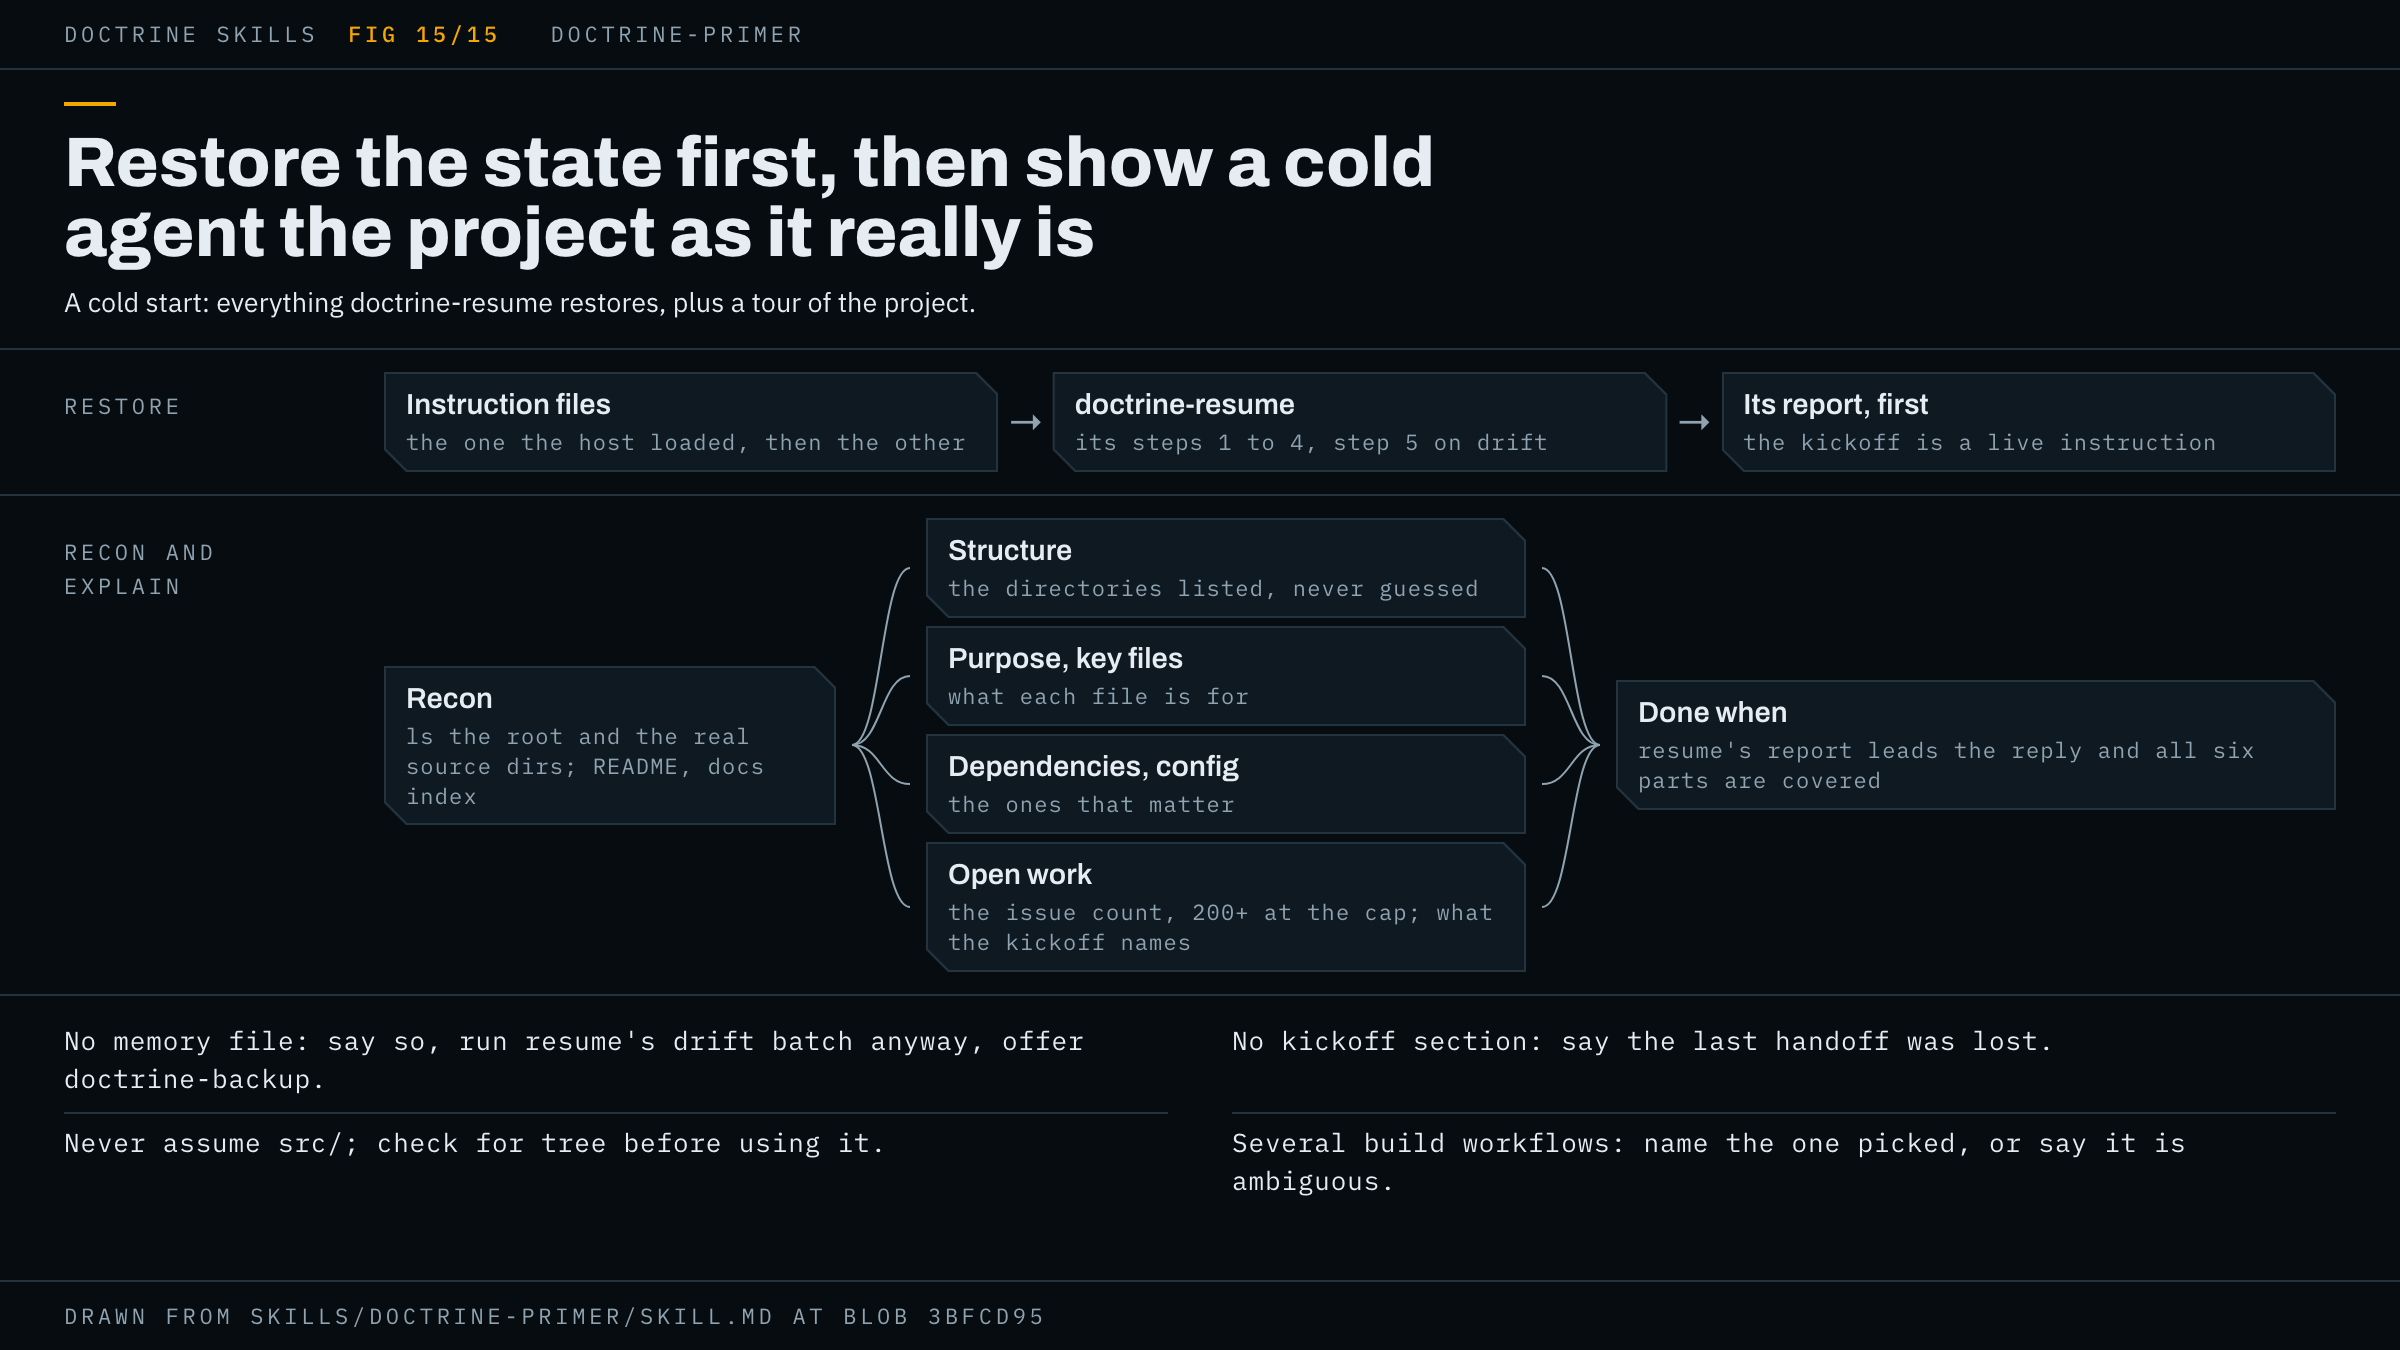
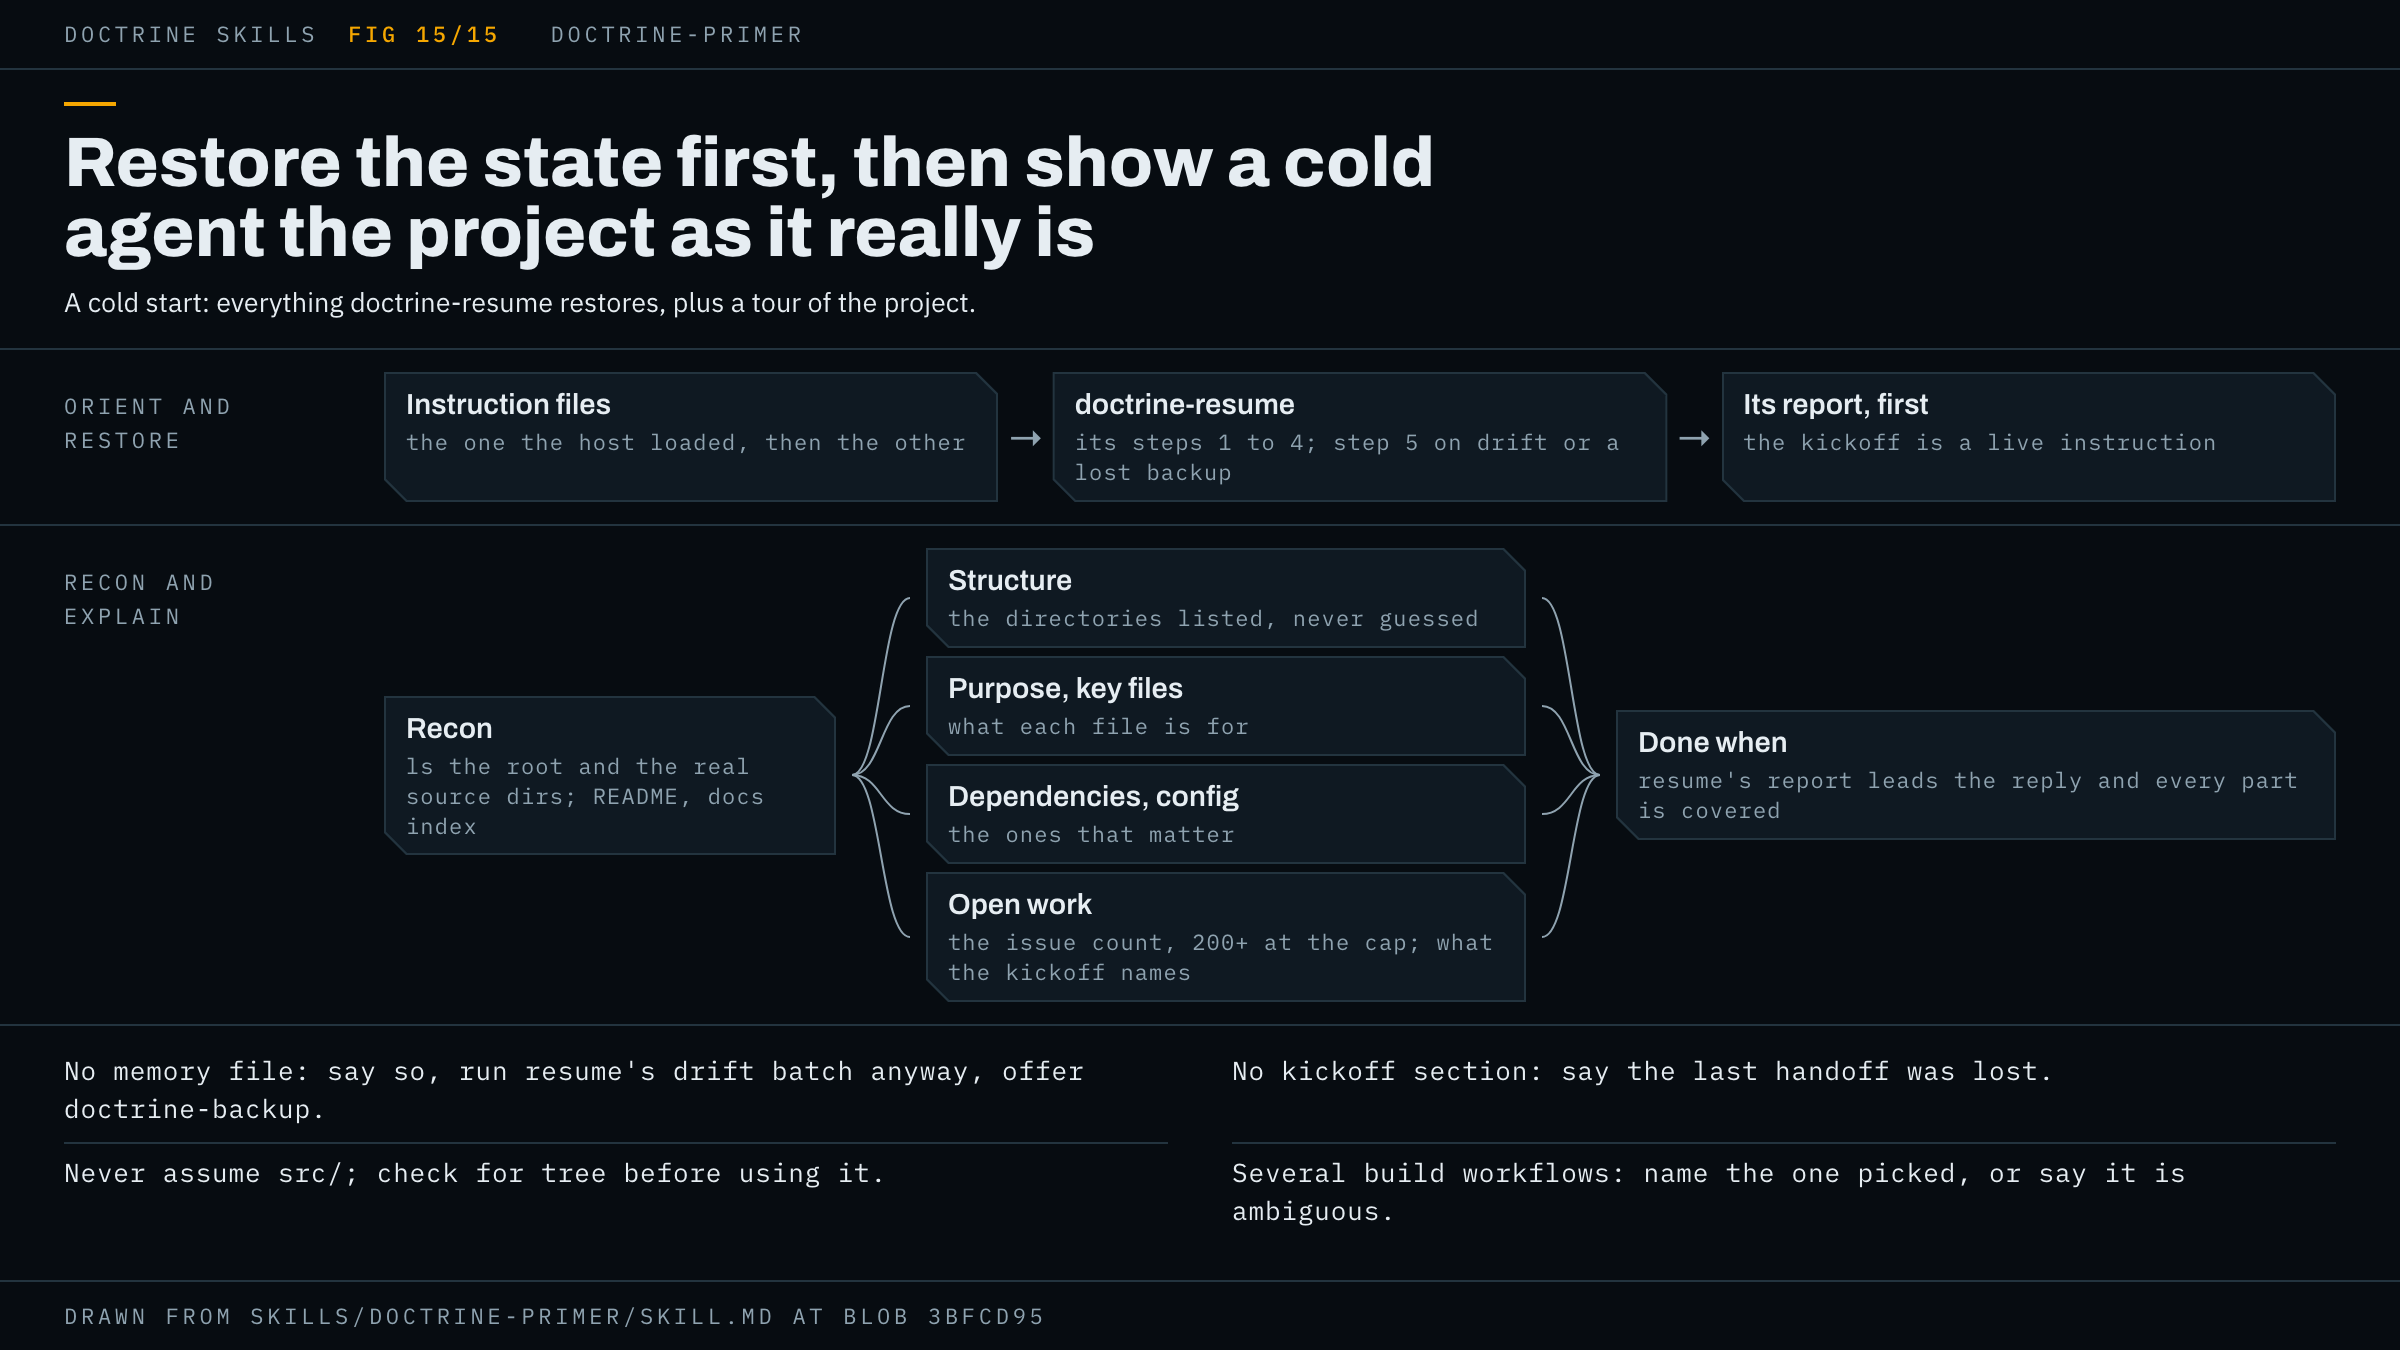
doctrine-primer page: round 1 repair (write list, early end, worked example, figure labels)

diff --git a/docs/skills/figures/doctrine-primer.html b/docs/skills/figures/doctrine-primer.html
@@ -16,11 +16,11 @@
 </section>
 
 <section class="row">
-  <div class="label">Restore</div>
+  <div class="label">Orient and<br>restore</div>
   <div class="flow">
     <div class="box"><b>Instruction files</b><span>the one the host loaded, then the other</span></div>
     <div class="arrow">→</div>
-    <div class="box"><b>doctrine-resume</b><span>its steps 1 to 4, step 5 on drift</span></div>
+    <div class="box"><b>doctrine-resume</b><span>its steps 1 to 4; step 5 on drift or a lost backup</span></div>
     <div class="arrow">→</div>
     <div class="box"><b>Its report, first</b><span>the kickoff is a live instruction</span></div>
   </div>
@@ -38,7 +38,7 @@
       <div class="box part"><b>Open work</b><span>the issue count, 200+ at the cap; what the kickoff names</span></div>
     </div>
     <svg class="wires" data-from=".part" data-to="#done"></svg>
-    <div class="col" style="flex:1"><div class="box" id="done"><b>Done when</b><span>resume's report leads the reply and all six parts are covered</span></div></div>
+    <div class="col" style="flex:1"><div class="box" id="done"><b>Done when</b><span>resume's report leads the reply and every part is covered</span></div></div>
   </div>
 </section>
 

diff --git a/docs/skills/doctrine-primer.md b/docs/skills/doctrine-primer.md
@@ -10,26 +10,28 @@ The figure shows the three steps this page walks through: restore, recon, explai
 
 The trigger is a cold start: a fresh session in a repo, a request to prime, orient or give a situation report, or an agent that has never seen this repo.
 
-When you need state only and not a tour of the code, `doctrine-resume` is the cheaper path, and the primer says so and stops. The two point at each other: the resume skill sends you to the primer when the agent needs the project explained.
+When you need state only and not a tour of the code, `doctrine-resume` is the cheaper path, and the primer says so and stops.
 
-The primer is not one of the hub's nine wrappers. The hub groups it with `doctrine-backup`, `doctrine-handoff` and `doctrine-resume`, the skills that carry a session's state and handoff to the next (doctrine step 5). It does not run a gate of its own. No hook types it: the auto-cycle types the `doctrine-resume` command after a `/clear`, never this one.
+The primer is not one of the hub's nine wrappers, and it runs no review gate of its own.
 
 ## What it asks you
 
 The primer asks nothing of its own. Two questions can reach you through the resume steps it runs:
 
 - Where the memory file and the repo disagree and auto-cycle is off: "Memory is stale — resync it?" On yes it runs `doctrine-backup`.
-- Where the handoff's first action may already have run and no phase record was read: whether it ran.
+- Where the first action the last handoff named may already have run, and no phase record was read to settle it: it asks whether that action ran.
 
-Where no memory file exists, it offers `doctrine-backup` at the end of the session.
+Where no memory file exists, it says so and offers to run `doctrine-backup` at the end of the session. Once `doctrine-backup` runs, it can ask questions of its own.
 
 ## How the work runs
 
-Before step 1 it reads the project instruction files. Your host loads one for it, and the hub's host reference names which: Claude Code loads `CLAUDE.md`, and Codex loads `AGENTS.md`. The primer reads the other one too where it exists, and reads the loaded one itself where the host stopped short of its end. `AGENTS.md` is usually where a project keeps its issue-tracking and session-completion norms.
+Before step 1 it reads the project instruction files. Your host loads one for it, and the hub's host reference names which: Claude Code loads `CLAUDE.md`, and Codex loads `AGENTS.md`. The primer reads the other one too where it exists, and reads the loaded one itself where the host loaded only part of it, as Codex does past 32 KiB by default. `AGENTS.md` is usually where a project keeps its issue-tracking and session-completion norms.
 
-1. **Restore.** It loads `doctrine-resume` first and makes no other call before it, because resume decides what has to come before the phase's wrapper. It then runs resume's steps 1 to 4: read the memory file, act on the kickoff's first line, check drift, hydrate the Active Work table, and write resume's report. That report goes at the very top of the reply, since its kickoff is a live instruction from the previous session and not history. Where resume finds drift or a backup that never landed, the primer takes resume's step 5 as resume writes it. Resume's step 6, which carries a phase on in the same turn under auto-cycle, is not among the steps the primer names.
+1. **Restore.** It loads `doctrine-resume` first and makes no call before it except reading the instruction files, because resume decides what has to come before the phase's wrapper. It then runs resume's steps 1 to 4: read the memory file, act on the kickoff's first line, check drift, hydrate the Active Work table, and write resume's report. That report goes at the very top of the reply, since its kickoff is a live instruction from the previous session and not history.
 
-   Through those steps, when the record the current handoff names is Open or Blocked, the session loads that phase's wrapper and then the `doctrine` skill. Two cases differ from a plain resume. With no memory file, resume would stop; the primer says there is none, offers `doctrine-backup` for the end of the session, runs resume's drift batch anyway for the branch, uncommitted work, open PRs and the build, and goes on to recon. With a memory file that has no `## Next Session Kickoff` section, it says so plainly: `doctrine-backup` is required to write that section, so its absence means the last handoff was lost.
+   Where resume finds drift or a backup that never landed, the primer takes resume's step 5 as resume writes it. Through those steps, when the record the current handoff names is Open or Blocked, the session loads that phase's wrapper and then the `doctrine` skill, or `doctrine` alone where the record names no wrapper.
+
+   Two cases differ from a plain resume. With no memory file, resume would stop; the primer says there is none, runs resume's drift batch anyway for the branch, uncommitted work, open PRs and the build, and goes on to recon. With a memory file that has no `## Next Session Kickoff` section, it says so plainly: `doctrine-backup` is required to write that section, so its absence means the last handoff was lost.
 
 2. **Recon.** It finds the project's real shape and never assumes a `src/` directory. In one batch:
 
@@ -50,11 +52,27 @@ Before step 1 it reads the project instruction files. Your host loads one for it
 
 ## How it ends
 
-It is done when resume's report leads the reply, with the kickoff quoted or its absence flagged, and all six parts of the explanation are covered. The primer writes no file of its own. A file changes only through the resume steps it runs: `doctrine-backup` when you say yes to a resync or a backup never landed, and one paused line appended to the phase record when the first action is ambiguous.
+It is done when resume's report leads the reply, with the kickoff quoted or its absence flagged, and all six parts of the explanation are covered.
+
+One case ends sooner. Where the handoff's first action may already have run and a phase record was read, resume appends a paused line to that record and ends the turn after its report, so you get the report and no tour until that is settled.
+
+The primer writes no file of its own. A file changes only through the steps it runs:
+
+- `doctrine-backup`, when you say yes to a resync, accept the end-of-session backup it offers, or a backup never landed.
+- One line naming the drift in the phase record, when auto-cycle is on and resume finds drift.
+- One paused line appended to the phase record, in the case above.
+
+## A worked example
+
+This example is illustrative: it shows the shape of a run, not a recorded one.
+
+You open a fresh session in a repo you last worked in a week ago and type `prime`. The primer reads `CLAUDE.md`, finds no `AGENTS.md`, and loads `doctrine-resume`. The reply opens with resume's report: the kickoff quoted, and drift noted because the branch is two commits past what the memory file recorded. Auto-cycle is off, so it asks "Memory is stale — resync it?" and you say no.
+
+It then lists the root and the two source directories it finds, checks for `tree`, and reads the README and the `docs/` index. The issue count returns 200, so it reports "200+" open issues and pulls titles only for the two the kickoff names. It explains the structure, purpose, key files, dependencies, configuration and open work, and stops there without writing a file.
 
 ## How to invoke it
 
-The description fires on a cold start or a request to orient. Sample prompts:
+Sample prompts:
 
 ```text
 prime
@@ -66,7 +84,7 @@ give me a situation report on this repo
 
 ## Requirements
 
-Nothing beyond the plugin must be installed. The GitHub CLI `gh` supplies the open PRs, the build status and the issue count. Where `gh` fails, resume's drift check says so once and continues on git alone. The plugin's own requirements are in [docs/requirements.md](../requirements.md).
+The GitHub CLI `gh` supplies the open PRs, the build status, the Active Work issue states and the open issue count. Where `gh` fails, resume's drift check says so once and continues on git alone. The primer's text does not say what its recon reports for the issue count without `gh`. The plugin's own requirements are in [docs/requirements.md](../requirements.md).
 
 The hub's page is [doctrine.md](doctrine.md), and the README is [here](../../README.md).
 
